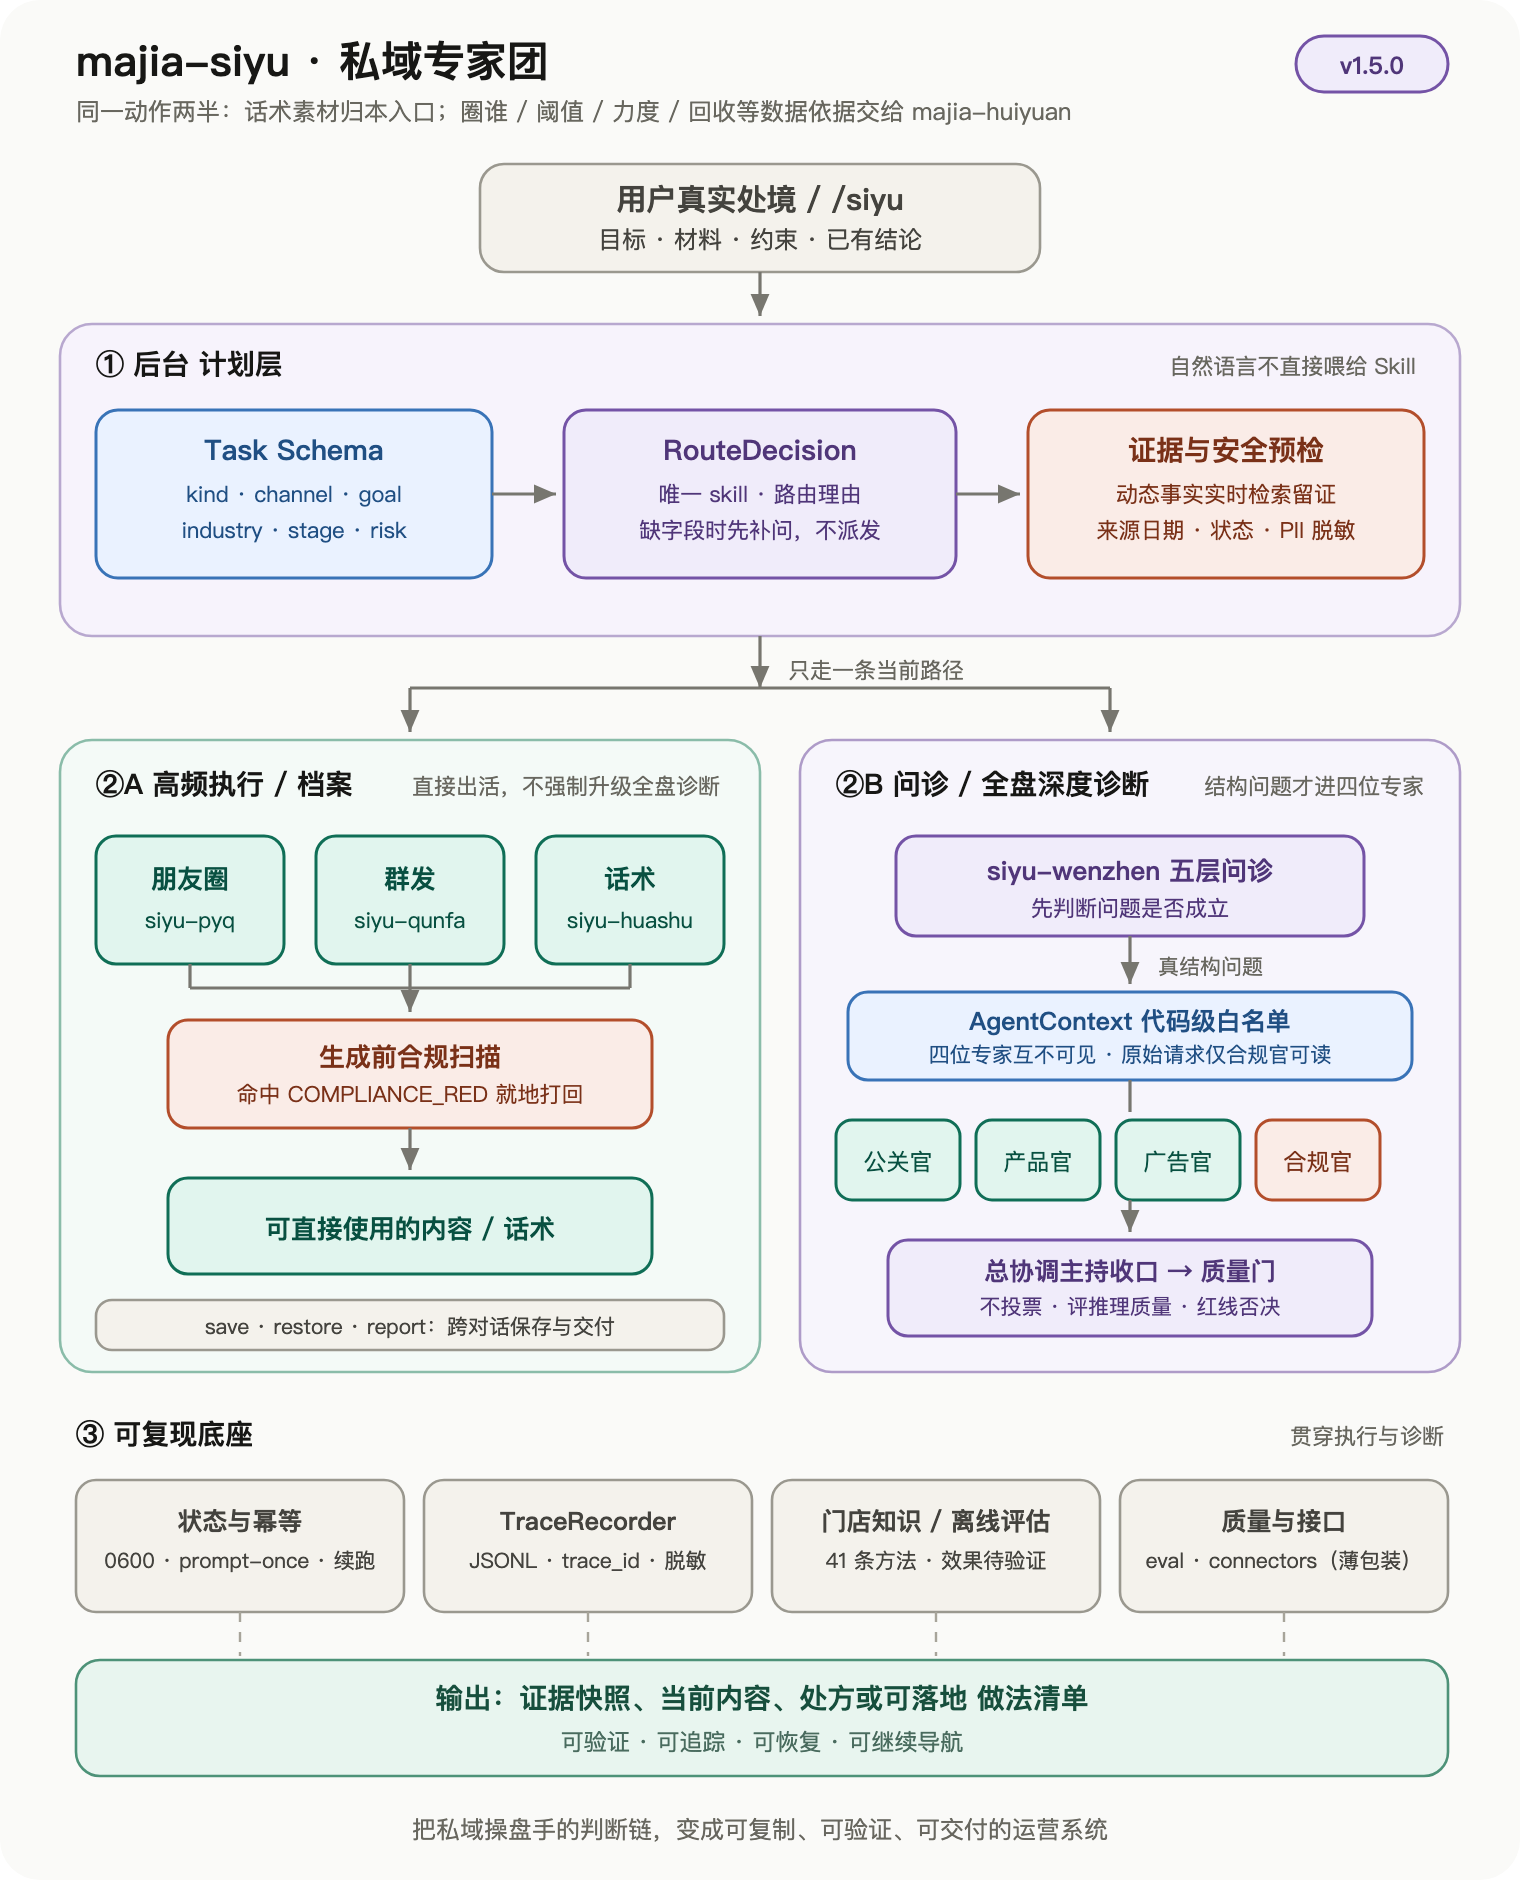
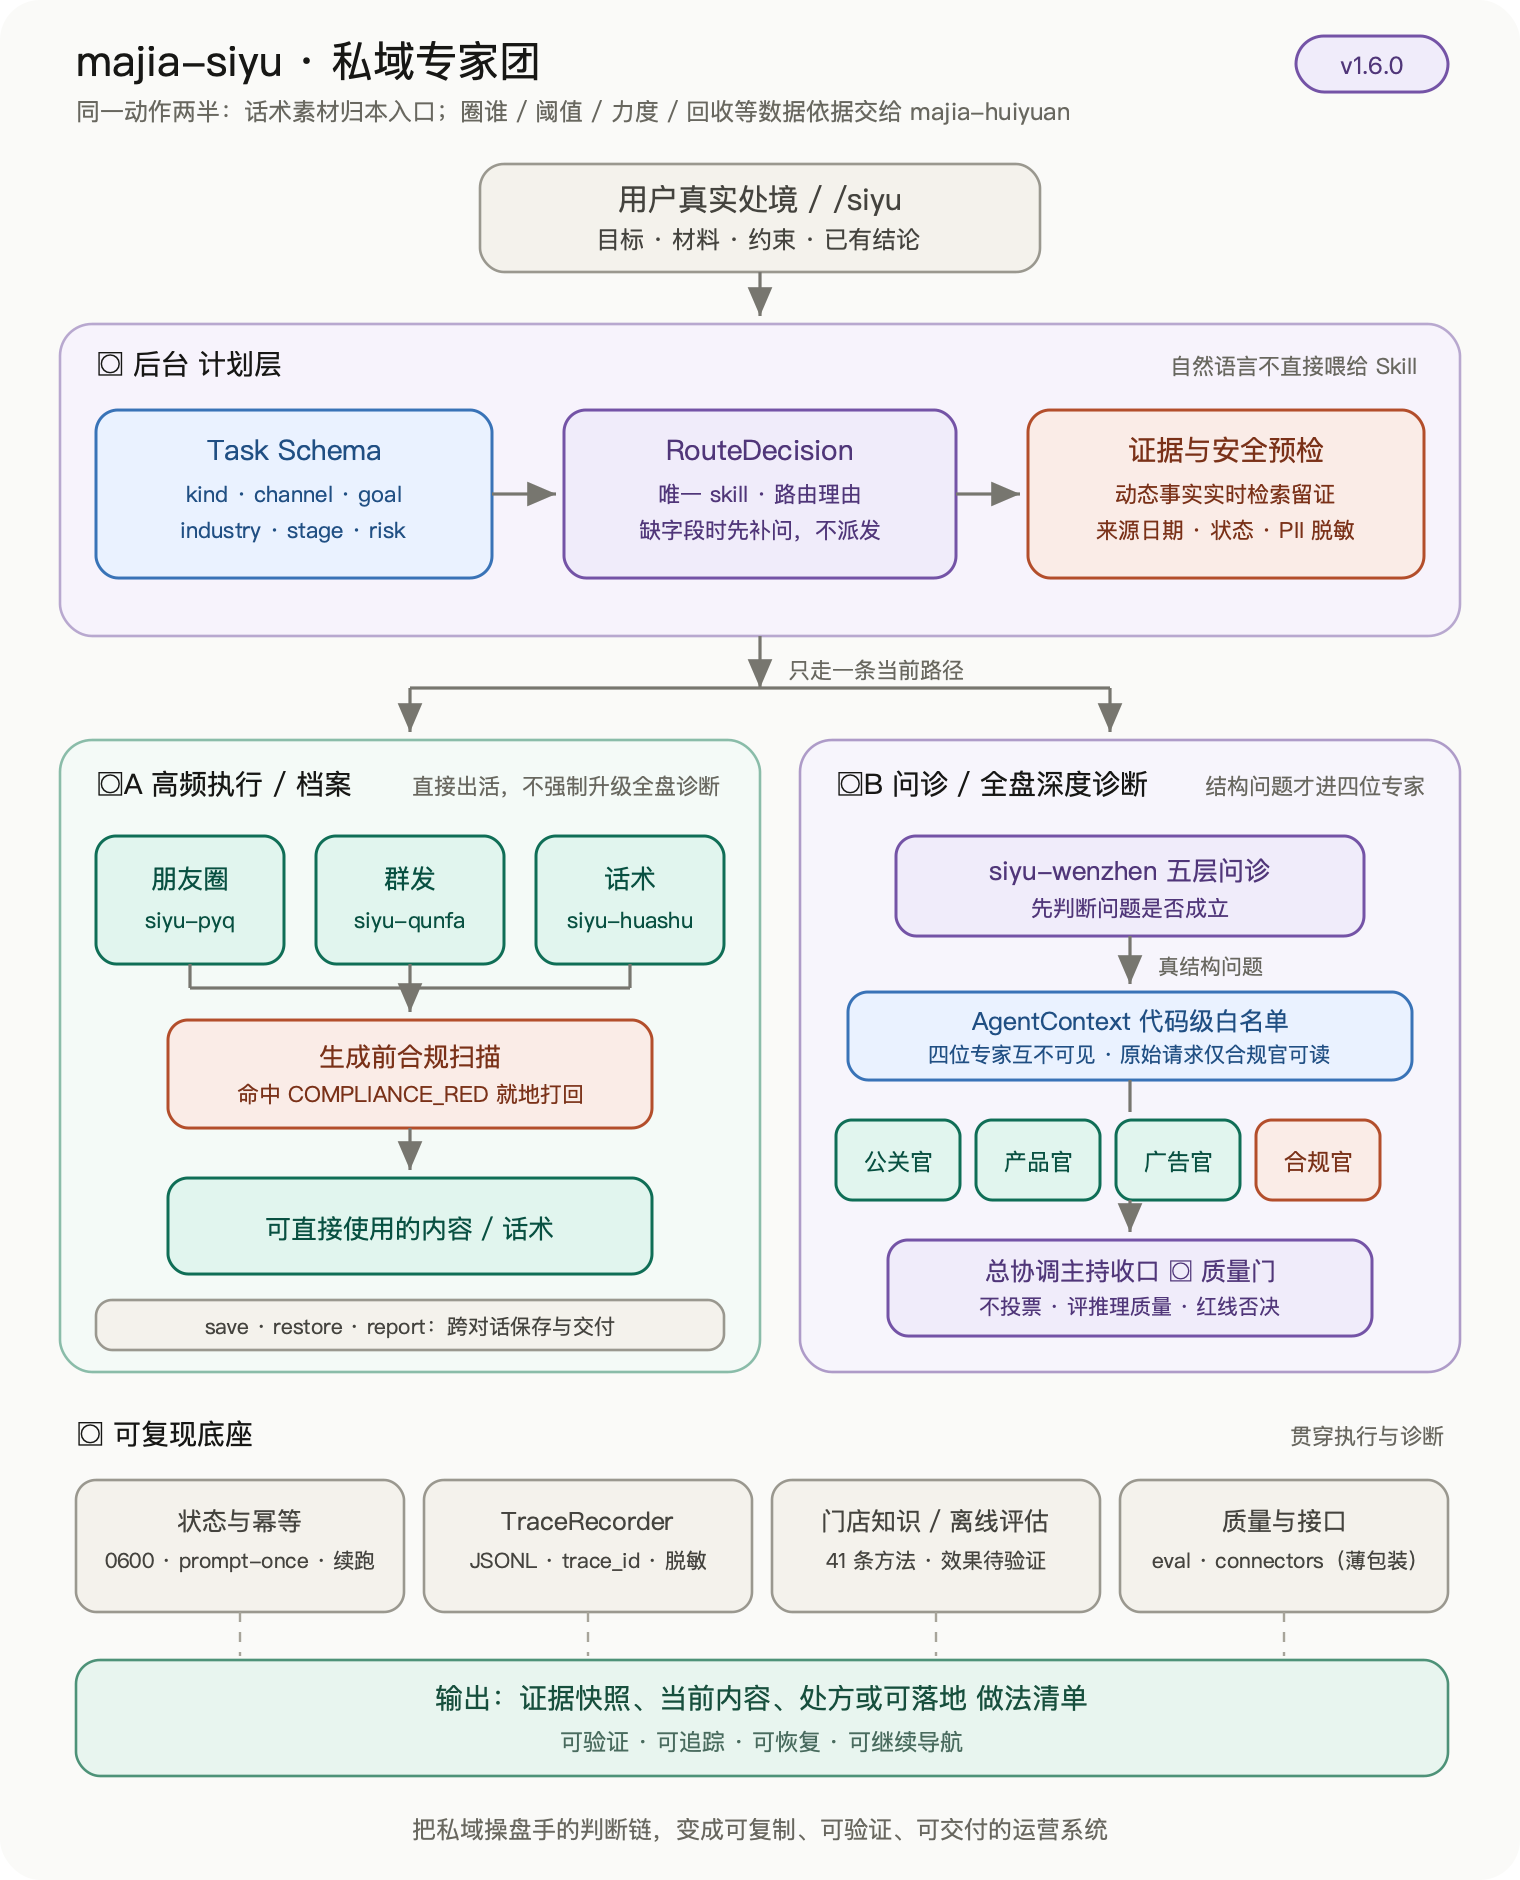
chore: prepare siyu 1.6.0 for review without publishing

diff --git a/tests/test_release_contracts.py b/tests/test_release_contracts.py
@@ -18,7 +18,7 @@ class VersionReleaseContractTests(unittest.TestCase):
     def test_repository_distribution_versions_are_aligned(self) -> None:
         version, install_units, skill_count, errors = check_versions.check(ROOT)
 
-        self.assertEqual(version, "1.5.0")
+        self.assertEqual(version, "1.6.0")
         self.assertEqual(install_units, 11)
         self.assertEqual(skill_count, 34)
         self.assertEqual(errors, [])
@@ -47,7 +47,7 @@ class VersionReleaseContractTests(unittest.TestCase):
                     errors: list[str] = []
 
                     count = check_versions._check_marketplace(
-                        root, rel, "1.5.0", errors
+                        root, rel, "1.6.0", errors
                     )
 
                     self.assertEqual(count, 1)

diff --git a/tests/test_save_privacy_contract.py b/tests/test_save_privacy_contract.py
@@ -14,7 +14,7 @@ class SavePrivacyContractTests(unittest.TestCase):
         cls.text = SAVE_SKILL.read_text(encoding="utf-8")
 
     def test_skill_declares_release_version(self) -> None:
-        self.assertIn('version: "1.5.0"', self.text)
+        self.assertIn('version: "1.6.0"', self.text)
 
     def test_default_scope_is_structured_conclusions_not_full_chat(self) -> None:
         self.assertIn("默认只保存结构化结论，不复制完整对话", self.text)

diff --git a/src/siyu_team/__init__.py b/src/siyu_team/__init__.py
@@ -4,4 +4,4 @@ from .runtime import ExecutionPlan, SiyuRuntime
 from .task import Task, TaskKind, parse_task
 
 __all__ = ["ExecutionPlan", "SiyuRuntime", "Task", "TaskKind", "parse_task"]
-__version__ = "1.5.0"
+__version__ = "1.6.0"

diff --git a/README.en.md b/README.en.md
@@ -1,6 +1,6 @@
 # Siyu Expert Team · Majia Field Edition
 
-[![Skill Version](https://img.shields.io/badge/skill-v1.5.0-0b5cad.svg)](https://github.com/maojiebc/majia-siyu-team/releases)
+[![Skill Version](https://img.shields.io/badge/skill-v1.6.0-0b5cad.svg)](https://github.com/maojiebc/majia-siyu-team/releases)
 [![License](https://img.shields.io/badge/license-MIT-blue.svg)](./LICENSE)
 [![ClawHub](https://img.shields.io/badge/ClawHub-majia--siyu-6b4bd8.svg)](https://clawhub.ai/s/majia-siyu)
 [![SkillHub](https://img.shields.io/badge/SkillHub-siyu-ef6c00.svg)](https://skillhub.cn)
@@ -16,7 +16,7 @@
 </p>
 
 <p align="center">
-  <img src="https://raw.githubusercontent.com/maojiebc/majia-siyu-team/main/docs/framework.png" width="520" alt="majia-siyu v1.5.0 architecture: one entry picks the current step; external facts require live evidence; structural issues escalate to a full four-expert review; knowledge pilot stays offline">
+  <img src="https://raw.githubusercontent.com/maojiebc/majia-siyu-team/main/docs/framework.png" width="520" alt="majia-siyu v1.6.0 architecture: one entry picks the current step; external facts require live evidence; structural issues escalate to a full four-expert review; knowledge pilot stays offline">
 </p>
 
 > **In one glance**: describe a real situation → `/siyu` picks only the current step → high-frequency work (Moments / group broadcast / welcome scripts) ships with write-time compliance → true structural issues escalate to four isolated officers → results can be saved, resumed, and reported. Operating actions live here; membership metrics / SQL / warehouses belong in [majia-huiyuan](https://github.com/maojiebc/majia-huiyuan).
@@ -159,9 +159,9 @@ Feishu is intake + human review only — not a runtime source. No auto-approval,
 
 ## Version history
 
+- **v1.6.0** (2026-10-12): Seasonal catering templates, prompt-only self-tests and content fixes, optional read-only client context; community date stability and clearer stale-bundle checks. Release preparation only; H1/H2/H3 remain Not Evaluated.
 - **v1.5.0** (2026-09-14): Store membership execution and scenario retrieval; 41 curated rules, with six scenarios checked in source, wheel and SkillHub packages.
 - **v1.4.3**: WorkBuddy expert-team packaging and archive checks.
-- **v1.4.2**: Entry, knowledge, privacy and distribution consistency.
 
 Full history: [CHANGELOG](https://github.com/maojiebc/majia-siyu-team/blob/main/CHANGELOG.md).
 

diff --git a/README.md b/README.md
@@ -1,6 +1,6 @@
 # 私域专家团 · 马甲实战版
 
-[![Skill Version](https://img.shields.io/badge/skill-v1.5.0-0b5cad.svg)](https://github.com/maojiebc/majia-siyu-team/releases)
+[![Skill Version](https://img.shields.io/badge/skill-v1.6.0-0b5cad.svg)](https://github.com/maojiebc/majia-siyu-team/releases)
 [![License](https://img.shields.io/badge/license-MIT-blue.svg)](./LICENSE)
 [![ClawHub](https://img.shields.io/badge/ClawHub-majia--siyu-6b4bd8.svg)](https://clawhub.ai/s/majia-siyu)
 [![SkillHub](https://img.shields.io/badge/SkillHub-siyu-ef6c00.svg)](https://skillhub.cn)
@@ -16,7 +16,7 @@
 </p>
 
 <p align="center">
-  <img src="https://raw.githubusercontent.com/maojiebc/majia-siyu-team/main/docs/framework.png" width="520" alt="majia-siyu v1.5.0 框架全局：统一入口先选当前一步；动态事实先检索留证；结构问题才升级全盘诊断；知识试验只做离线验证">
+  <img src="https://raw.githubusercontent.com/maojiebc/majia-siyu-team/main/docs/framework.png" width="520" alt="majia-siyu v1.6.0 框架全局：统一入口先选当前一步；动态事实先检索留证；结构问题才升级全盘诊断；知识试验只做离线验证">
 </p>
 
 图中的代码约束适用于 Python 模式；纯提示模式按文档执行，不能声称已实现代码隔离。
@@ -233,9 +233,9 @@ PYTHONPATH=src python3 -m siyu_team.cli "群发三轮没人打开，问题出在
 
 ## 📋 版本记录
 
+- **v1.6.0**（2026-10-12）Q4 至春节模板、模型出活自测与内容修正、只读档案复用；修复社区假更新与旧包提示。发布准备，H1/H2/H3 未验证。
 - **v1.5.0**（2026-09-14）门店会员执行知识与场景检索；41 条严格知识随包分发；补齐六场景安装验证，更新发布和使用说明。
 - **v1.4.3** — WorkBuddy 专家团适配、自包含 ZIP 和平台契约检查。
-- **v1.4.2** — 入口、公开知识与安装包一致性；隐私、存档和静态合规边界。
 
 完整历史见 [CHANGELOG](https://github.com/maojiebc/majia-siyu-team/blob/main/CHANGELOG.md)。
 

diff --git a/plugins/siyu-core/skills/majia-siyu/README.md b/plugins/siyu-core/skills/majia-siyu/README.md
@@ -1,6 +1,6 @@
 # 私域专家团 · 马甲实战版
 
-[![Skill Version](https://img.shields.io/badge/skill-v1.5.0-0b5cad.svg)](https://github.com/maojiebc/majia-siyu-team/releases)
+[![Skill Version](https://img.shields.io/badge/skill-v1.6.0-0b5cad.svg)](https://github.com/maojiebc/majia-siyu-team/releases)
 [![License](https://img.shields.io/badge/license-MIT-blue.svg)](https://github.com/maojiebc/majia-siyu-team/blob/main/LICENSE)
 [![GitHub](https://img.shields.io/badge/GitHub-majia--siyu--team-171515.svg)](https://github.com/maojiebc/majia-siyu-team)
 
@@ -10,7 +10,7 @@
 
 私域经营动作全景图（统一入口 → 当前一步 → 执行 / 问诊 / 升级全盘诊断；动态事实先检索留证；知识 Pilot 仅离线验证）：
 
-![majia-siyu v1.5.0 框架全局](https://raw.githubusercontent.com/maojiebc/majia-siyu-team/main/docs/framework.png)
+![majia-siyu v1.6.0 框架全局](https://raw.githubusercontent.com/maojiebc/majia-siyu-team/main/docs/framework.png)
 
 完整框架 SVG 与源码说明见 [GitHub docs/framework.svg](https://github.com/maojiebc/majia-siyu-team/blob/main/docs/framework.svg)。
 
@@ -62,7 +62,7 @@ skillhub install siyu
 
 ## 📋 版本记录
 
-- **v1.5.0**（2026-09-14）门店会员执行知识与场景检索；41 条严格知识随包分发；补齐六场景安装验证，更新发布和使用说明。
+- **v1.6.0**（2026-09-14）门店会员执行知识与场景检索；41 条严格知识随包分发；补齐六场景安装验证，更新发布和使用说明。
 - **v1.4.3** — WorkBuddy 专家团适配、自包含 ZIP 和平台契约检查。
 - **v1.4.2** — 入口、公开知识与安装包一致性；隐私、存档和静态合规边界。
 

diff --git a/skillhub/majia-siyu/README.md b/skillhub/majia-siyu/README.md
@@ -1,6 +1,6 @@
 # 私域专家团 · 马甲实战版
 
-[![Skill Version](https://img.shields.io/badge/skill-v1.5.0-0b5cad.svg)](https://github.com/maojiebc/majia-siyu-team/releases)
+[![Skill Version](https://img.shields.io/badge/skill-v1.6.0-0b5cad.svg)](https://github.com/maojiebc/majia-siyu-team/releases)
 [![License](https://img.shields.io/badge/license-MIT-blue.svg)](https://github.com/maojiebc/majia-siyu-team/blob/main/LICENSE)
 [![GitHub](https://img.shields.io/badge/GitHub-majia--siyu--team-171515.svg)](https://github.com/maojiebc/majia-siyu-team)
 
@@ -10,7 +10,7 @@
 
 私域经营动作全景图（统一入口 → 当前一步 → 执行 / 问诊 / 升级全盘诊断；动态事实先检索留证；知识 Pilot 仅离线验证）：
 
-![majia-siyu v1.5.0 框架全局](https://raw.githubusercontent.com/maojiebc/majia-siyu-team/main/docs/framework.png)
+![majia-siyu v1.6.0 框架全局](https://raw.githubusercontent.com/maojiebc/majia-siyu-team/main/docs/framework.png)
 
 完整框架 SVG 与源码说明见 [GitHub docs/framework.svg](https://github.com/maojiebc/majia-siyu-team/blob/main/docs/framework.svg)。
 
@@ -62,7 +62,7 @@ skillhub install siyu
 
 ## 📋 版本记录
 
-- **v1.5.0**（2026-09-14）门店会员执行知识与场景检索；41 条严格知识随包分发；补齐六场景安装验证，更新发布和使用说明。
+- **v1.6.0**（2026-09-14）门店会员执行知识与场景检索；41 条严格知识随包分发；补齐六场景安装验证，更新发布和使用说明。
 - **v1.4.3** — WorkBuddy 专家团适配、自包含 ZIP 和平台契约检查。
 - **v1.4.2** — 入口、公开知识与安装包一致性；隐私、存档和静态合规边界。
 

diff --git a/CHANGELOG.md b/CHANGELOG.md
@@ -2,6 +2,20 @@
 
 本项目遵循 [keep-a-changelog](https://keepachangelog.com/) 与 SemVer。
 
+## [1.6.0] - 2026-10-12
+### 新增
+- Q4 至春节节点经营包：年夜饭六阶段的朋友圈、群发与私聊结构模板，以及营业通知和节后复苏模板；门店事实均待填核实。
+- 12 个常见经营场景的纯提示商店包自测；画像为合成条件，报告单独交维护者，不进入 Pilot。
+- 朋友圈、群发、话术可只读最近客户档案并说明日期来源，用户可拒绝，当前对话覆盖旧事实，不回写。
+### 修复
+- 社区流水线无变更时不再改评审日期；恢复历史首次批准日期和稳定的日期差审核指标；提交说明按原子 ID 状态增减生成。
+- WorkBuddy 本地旧包提示先说明版本及重建方式，同版差异最多列十个文件。
+- 出活检查状态、问诊停顿、催订余位字段与风险说明改写；参考资料不再把无出处阈值或工艺、评价、回复时长当事实。
+- 主入口精简重复内容，使生成后的商店入口也在 8KB 以内。
+### 验证边界
+- 当前为发布准备，尚未发布。模型自测不是 H1 结论；H1/H2/H3 仍为 Not Evaluated。
+- 十二份修正产物的全文静态扫描通过，不是平台审批或真实经营效果。真实档案权限行为、WorkBuddy 平台版本与合并后次日定时任务仍需人工确认。
+
 ## [1.5.0] - 2026-09-14
 ### 新增
 - 门店会员场景接入正常入口：收银、领礼进群、开业演练、核销排错、员工激励和店长读数；补充日常内容与储值诉求。

diff --git a/skillhub/majia-siyu/SKILL.md b/skillhub/majia-siyu/SKILL.md
@@ -5,7 +5,7 @@ description: |
   边界：若核心交付物是会员指标口径、RFM、复购/留存公式、SQL/DDL、数仓、字段词典、数据质量或会员看板，不要触发本 Skill，改用 majia-huiyuan；召回/提频/防流失的数据依据也在那边。模糊的私域经营问题先由本入口诊断；只有出现“怎么算、口径、SQL、表、看板、数据核验”等明确数据信号才转 majia-huiyuan。
 license: MIT
 metadata:
-  version: "1.5.0"
+  version: "1.6.0"
   author: "超级马甲 / maojiebc"
   homepage: https://github.com/maojiebc/majia-siyu-team
 ---
@@ -105,9 +105,9 @@ metadata:
 
 ## 📋 版本记录
 
+- **v1.6.0**（2026-10-12）Q4 至春节模板、模型出活自测与内容修正、只读档案复用；修复社区假更新与旧包提示。发布准备，H1/H2/H3 未验证。
 - **v1.5.0**（2026-09-14）门店会员执行知识与场景检索；41 条严格知识随包分发；补齐六场景安装验证，更新发布和使用说明。
 - **v1.4.3** — WorkBuddy 专家团适配、自包含 ZIP 和平台契约检查。
-- **v1.4.2** — 入口、公开知识与安装包一致性；隐私、存档和静态合规边界。
 
 完整历史见 [CHANGELOG](https://github.com/maojiebc/majia-siyu-team/blob/main/CHANGELOG.md)。
 

diff --git a/plugins/siyu-core/skills/majia-siyu/SKILL.md b/plugins/siyu-core/skills/majia-siyu/SKILL.md
@@ -5,7 +5,7 @@ description: |
   边界：若核心交付物是会员指标口径、RFM、复购/留存公式、SQL/DDL、数仓、字段词典、数据质量或会员看板，不要触发本 Skill，改用 majia-huiyuan；召回/提频/防流失的数据依据也在那边。模糊的私域经营问题先由本入口诊断；只有出现“怎么算、口径、SQL、表、看板、数据核验”等明确数据信号才转 majia-huiyuan。
 license: MIT
 metadata:
-  version: "1.5.0"
+  version: "1.6.0"
   author: "超级马甲 / maojiebc"
   homepage: https://github.com/maojiebc/majia-siyu-team
 ---
@@ -93,9 +93,9 @@ metadata:
 
 ## 📋 版本记录
 
+- **v1.6.0**（2026-10-12）Q4 至春节模板、模型出活自测与内容修正、只读档案复用；修复社区假更新与旧包提示。发布准备，H1/H2/H3 未验证。
 - **v1.5.0**（2026-09-14）门店会员执行知识与场景检索；41 条严格知识随包分发；补齐六场景安装验证，更新发布和使用说明。
 - **v1.4.3** — WorkBuddy 专家团适配、自包含 ZIP 和平台契约检查。
-- **v1.4.2** — 入口、公开知识与安装包一致性；隐私、存档和静态合规边界。
 
 完整历史见 [CHANGELOG](https://github.com/maojiebc/majia-siyu-team/blob/main/CHANGELOG.md)。
 

diff --git a/plugins/siyu-execution/skills/siyu-qunfa/SKILL.md b/plugins/siyu-execution/skills/siyu-qunfa/SKILL.md
@@ -2,7 +2,7 @@
 name: siyu-qunfa
 description: 私域社群群发/栏目脚本生成——按栏目化模型给几十上百个群出可直接发的群发文案（每日好物/限时秒杀/干货/社群专属/接龙），多人设语气可切换，内置活动模板（偷着打折）与群发合规前置扫描。Use this skill when 写社群群发、群发通知、社群栏目推送、做群活动文案、私域群运营发消息、救群发打开率时。
 metadata:
-  version: "1.5.0"
+  version: "1.6.0"
 ---
 
 # 社群群发官（siyu-qunfa）

diff --git a/skillhub/majia-siyu/modules/siyu-qunfa/SKILL.md b/skillhub/majia-siyu/modules/siyu-qunfa/SKILL.md
@@ -2,7 +2,7 @@
 name: siyu-qunfa
 description: 私域社群群发/栏目脚本生成——按栏目化模型给几十上百个群出可直接发的群发文案（每日好物/限时秒杀/干货/社群专属/接龙），多人设语气可切换，内置活动模板（偷着打折）与群发合规前置扫描。Use this skill when 写社群群发、群发通知、社群栏目推送、做群活动文案、私域群运营发消息、救群发打开率时。
 metadata:
-  version: "1.5.0"
+  version: "1.6.0"
 ---
 
 # 社群群发官（siyu-qunfa）
